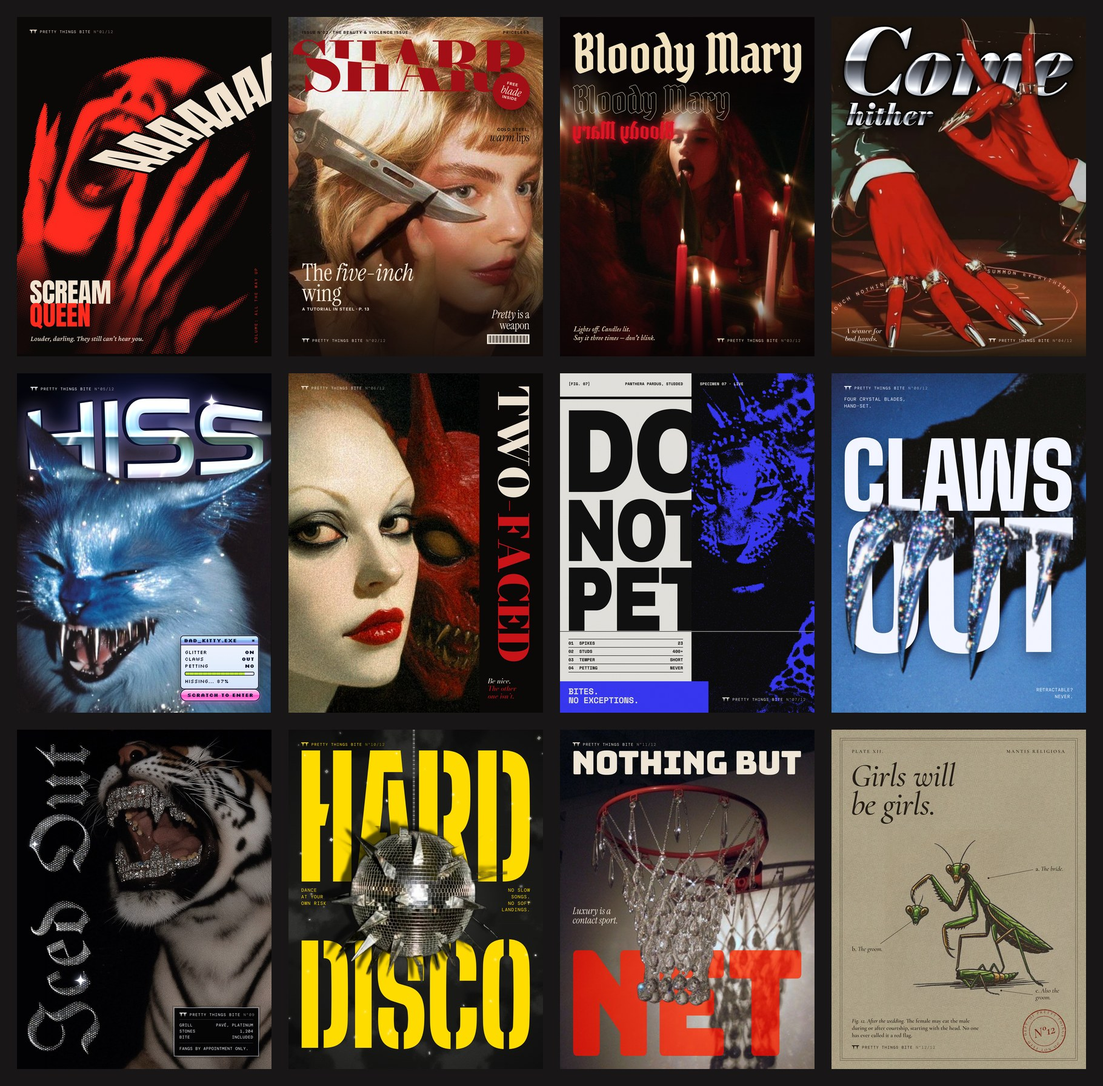
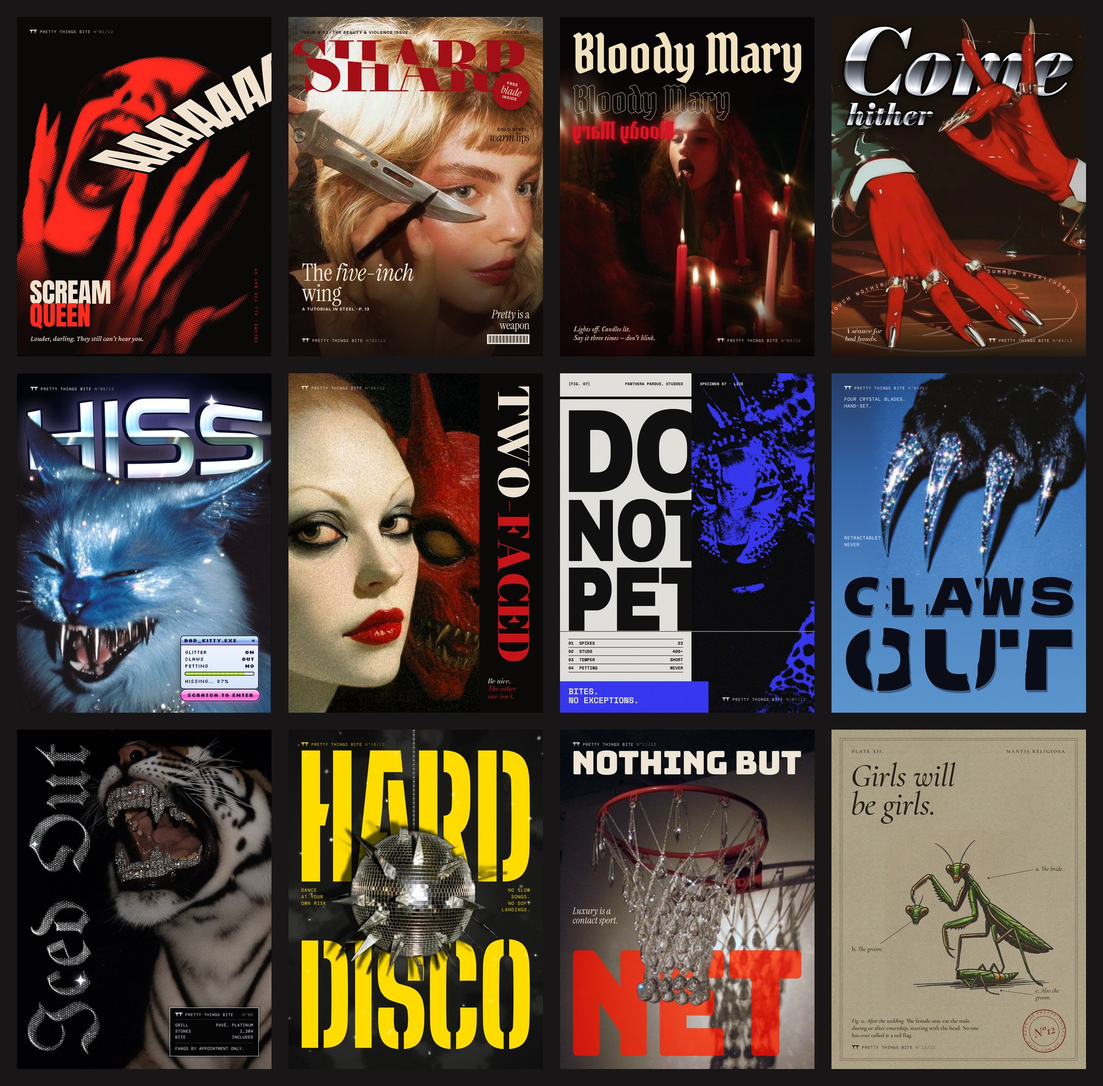
Pretty Things Bite: rebuild Claws Out, fix Iced Out tag overflow
N°08 now keeps the photo whole (no cut-out edges) and rakes the title with
four torn gouges that continue each claw's line, in near-black type with a
slab shadow on a backdrop matched to the photo's blue. N°09's tag widens
slightly and right-aligns the issue number so the header stays inside the
text column.

Claude-Session: https://claude.ai/code/session_016b6qAQEGXJcRPDY2kmFit5

Changed region(s): [[0.7385, 0.3438, 0.9846, 0.6562], [0.1538, 0.9375, 0.1846, 0.9688]]

diff --git a/projects/pretty-things-bite/08-claws-out.html b/projects/pretty-things-bite/08-claws-out.html
@@ -6,27 +6,46 @@
 <link rel="stylesheet" href="../../.claude/skills/html-graphics/assets/fonts.css">
 <link rel="stylesheet" href="series.css">
 <style>
-  :root { --bg: #3a69bf; --ink: #f4f7ff; --night: #070a14; --text: "DM Mono", monospace; --grain: .45; }
+  :root { --bg: #3c74b1; --ink: #0b0e1a; --ice: #f2f6ff; --text: "DM Mono", monospace; --grain: .45; }
 
-  /* photo, title, then only the claws in front: the words sit over the fur and under the blades */
-  .photo, .front { position: absolute; left: -40px; top: 0; width: 1280px; height: 1600px; }
-  .photo { z-index: 1; } .front { z-index: 5; }
-  .photo img, .front img { width: 100%; height: 100%; display: block; }
-  .title { position: absolute; z-index: 4; left: 60px; top: 300px; width: 1080px; }
-  .title img { display: block; width: 100%; filter: drop-shadow(0 18px 30px rgb(7 10 20 / .35)); }
+  /* the backdrop continues the photo's own blue, so its feathered edges disappear */
+  .backdrop { position: absolute; inset: 0; z-index: 0;
+              background: linear-gradient(180deg, #2b4479 0, #3c74b1 490px, #5b95ca 1040px, #6aa1d3 1600px); }
+  .photo { position: absolute; z-index: 1; left: 144px; top: -225px; width: 1056px; height: 1320px;
+           -webkit-mask: linear-gradient(90deg, transparent, #000 110px), linear-gradient(180deg, #000 1150px, transparent 1320px);
+           -webkit-mask-composite: source-in; mask: linear-gradient(90deg, transparent, #000 110px) intersect, linear-gradient(180deg, #000 1150px, transparent 1320px); }
+  .photo img { width: 100%; height: 100%; display: block; }
 
-  .info { position: absolute; z-index: 6; left: 60px; top: 60px; color: var(--ink); }
+  /* the title, raked: four gouges continue each claw's line down through both words */
+  .raked { position: absolute; inset: 0; z-index: 3; width: 1200px; height: 1600px; overflow: visible;
+           filter: drop-shadow(7px 11px 0 rgb(12 24 56 / .38)); }
+
+  .info { position: absolute; z-index: 6; left: 60px; top: 60px; color: var(--ice); }
   .info p { font: 500 22px/1.45 var(--text); letter-spacing: .06em; text-transform: uppercase; }
   .info .lockup { position: static; margin-bottom: 26px; }
-  .tag { position: absolute; z-index: 6; right: 60px; bottom: 60px; text-align: right; color: var(--ink);
+  .tag { position: absolute; z-index: 6; left: 60px; top: 760px; color: var(--ice);
          font: 500 22px/1.45 var(--text); letter-spacing: .06em; text-transform: uppercase; }
 </style>
 </head>
 <body>
 <section class="artboard" data-name="poster">
+  <div class="backdrop"></div>
   <div class="photo"><img src="assets/src/08.jpg" alt=""></div>
-  <div class="title"><img src="assets/p08/title.svg" alt="CLAWS OUT"></div>
-  <div class="front"><img src="assets/p08/claws-front.png" alt=""></div>
+
+  <svg class="raked" viewBox="0 0 1200 1600" data-ignore>
+    <defs>
+      <!-- torn edges on the gouges -->
+      <filter id="scratch" x="-20%" y="-5%" width="140%" height="110%" color-interpolation-filters="sRGB">
+        <feTurbulence type="fractalNoise" baseFrequency="0.09 0.02" numOctaves="3" seed="6" result="n"/>
+        <feDisplacementMap in="SourceGraphic" in2="n" scale="9" xChannelSelector="R" yChannelSelector="G"/>
+      </filter>
+      <mask id="cuts" maskUnits="userSpaceOnUse" x="0" y="0" width="1200" height="1600">
+        <rect width="1200" height="1600" fill="#fff"/>
+        <g id="gouges" fill="#000" filter="url(#scratch)"></g>
+      </mask>
+    </defs>
+    <image href="assets/p08/title.svg" x="60" y="958" width="1080" height="541" mask="url(#cuts)"/>
+  </svg>
 
   <div class="info">
     <div class="lockup">Pretty Things Bite <b>N°08/12</b></div>
@@ -35,5 +54,24 @@
   <p class="tag">Retractable?<br>Never.</p>
   <div class="grain"></div>
 </section>
+<script>
+  // claw tips in poster px (photo at 1.1x, offset 144, -225) and each claw's lean, continued past the tip
+  const claws = [
+    { x: 265, y: 863, w: 66 },
+    { x: 450, y: 926, w: 72 },
+    { x: 719, y: 940, w: 72 },
+    { x: 967, y: 736, w: 56 },
+  ];
+  const lean = -0.085, end = 1585;
+  const g = document.getElementById('gouges');
+  g.innerHTML = claws.map(({ x, y, w }) => {
+    // a crescent: pointed at the tip and at the far end, widest a third of the way down, bowed like the claw
+    const y0 = y + 14, L = end - y0, x1 = x + lean * L, y1 = end;
+    const at = t => [x + lean * L * t, y0 + L * t];
+    const [mx, my] = at(0.36);
+    const bow = -30;
+    return `<path d="M${x},${y0} Q${mx - w * 1.25 + bow},${my} ${x1},${y1} Q${mx + w * .75 + bow},${my} ${x},${y0} Z"/>`;
+  }).join('');
+</script>
 </body>
 </html>

diff --git a/projects/pretty-things-bite/09-iced-out.html b/projects/pretty-things-bite/09-iced-out.html
@@ -29,11 +29,12 @@
   .s1 { left: 268px; top: 1150px; width: 64px; height: 64px; }
   .s2 { left: 64px; top: 520px; width: 40px; height: 40px; }
 
-  .tag { position: absolute; z-index: 7; right: 60px; bottom: 60px; width: 400px; padding: 22px 24px 20px;
+  .tag { position: absolute; z-index: 7; right: 60px; bottom: 60px; width: 420px; padding: 22px 24px 20px;
          background: #050506; color: var(--ink); border: 2px solid #c9cfda; outline: 1px solid #050506; outline-offset: 6px;
          font: 500 19px/1.5 var(--text); letter-spacing: .06em; text-transform: uppercase; }
   .tag hr { border: 0; border-top: 1px solid #5d6370; margin: 12px 0; }
-  .tag .lockup { position: static; font-size: 18px; }
+  .tag .lockup { position: static; font-size: 18px; letter-spacing: .1em; }
+  .tag .lockup b { margin-left: auto; }
   .tag dl { display: grid; grid-template-columns: 1fr auto; }
   .tag dd { text-align: right; }
 </style>

diff --git a/projects/pretty-things-bite/brief.md b/projects/pretty-things-bite/brief.md
@@ -20,7 +20,7 @@ Every image is something beautiful that could hurt you: nails, claws, fangs, kni
 | 05 | Glitter blue cat, chrome fangs | HISS | Y2K chrome | Depth sandwich, chrome behind the ears |
 | 06 | White face, red devil mask | TWO-FACED | Gothic Didone | Asymmetric split |
 | 07 | Spiked, studded leopard | DO NOT PET | Brutalist (electric blue instead of acid) | Stretched word stack eaten by the slab |
-| 08 | Crystal claws on blue | CLAWS OUT | Clean, cold | Depth sandwich, claws over the type |
+| 08 | Crystal claws on blue | CLAWS OUT | Cold, graphic | The claws hang above; the title below is raked by four gouges on the claws' lines |
 | 09 | Tiger with diamond grill | ICED OUT | Blackletter streetwear | Giant crop, type in the dark |
 | 10 | Spiked disco ball | HARD DISCO | Industrial techno, stencil | Depth sandwich: the ball hangs between the words |
 | 11 | Crystal basketball net | NOTHING BUT NET | Street-court signage | NET painted on the wall under the net and its shadow |
@@ -43,7 +43,8 @@ Key treatments:
 
 - N°01: `treat.py halftone assets/cut/01.png --flatten '#000000' --width 1920 --cell 13 --angle 22 --invert --ink '#ff3324' --paper '#0d0909' --levels .07,.78 --gamma 1.15`; scream drawn with `lettering.cjs --google Anton --warp perspective --amount -.85 --jitter .45`.
 - N°07: crop `src/07.jpg` to (80, 212, 700, 1920), then `treat.py photocopy --width 870 --levels .12,.62 --grit .7 --specks .8 --ink '#0b0b0b' --paper '#3a3aff'`.
-- N°08 and N°11: front layers are the cut-outs masked to the claws (below the line through the claw bases, gated by brightness) and to the real net (the wall shadow polygon removed).
+- N°08: the photo is feathered into a backdrop gradient sampled from its own edges; the gouges are crescents drawn from each claw tip along the claw's lean (script at the end of the file), with a displacement filter for torn edges.
+- N°11: the front layer is the net cut-out with the wall-shadow polygon removed.
 - N°12: the page texture is a mirrored tile of a clean patch of the illustration's own paper, so the plate has no visible edge.
 
 ## Known limits
